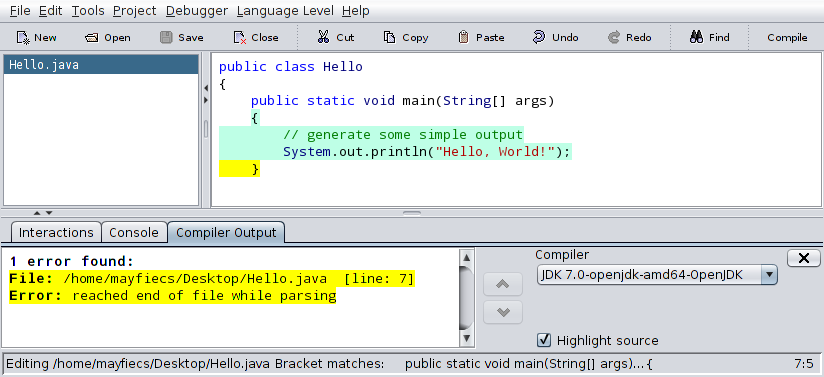
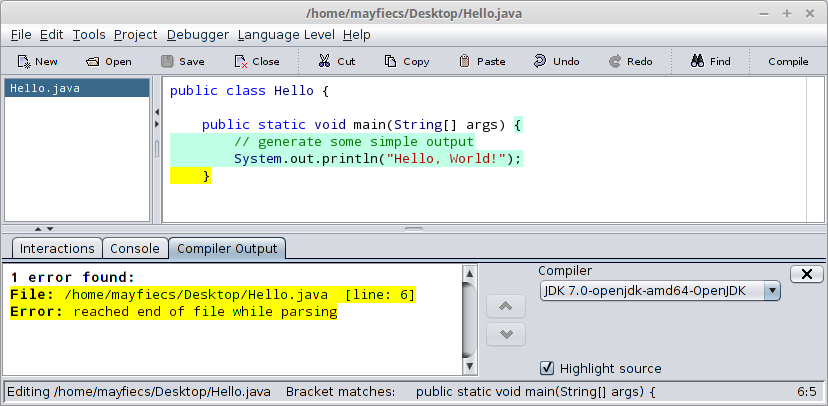
moved JDK/DrJava instructions to web; Egyptian brackets

Changed region(s): [[0.0, 0.0, 1.0, 1.0]]

diff --git a/web/drjava.html b/web/drjava.html
@@ -1,0 +1,77 @@
+<!DOCTYPE html>
+<html>
+<head>
+    <title>Getting started with DrJava</title>
+    <link href="style.css" rel="stylesheet" type="text/css">
+</head>
+<body>
+
+<font size="+2"><strong>
+    Getting started with DrJava
+</strong></font>
+<br>
+<font size="+1">
+    <a href="http://thinkjava.org/">Think Java, 6/E, Downey and Mayfield</a>
+</font>
+
+<h1>Step 1: JDK</h1>
+
+<p>
+In order to compile Java programs on your own computer, you will need to install the <a href="http://www.oracle.com/technetwork/java/javase/downloads/"><img src="world.png"> Java Development Kit</a> from Oracle's website.
+Scroll down to the section "Java Platform, Standard Edition" and click the download button under JDK.
+Then accept the license agreement and select the installer for your operating system.
+Don't forget to run the installer after you download it!
+If you run into trouble, the <a href="http://docs.oracle.com/javase/7/docs/webnotes/install/"><img src="world.png"> JDK Installation Guide</a> has specific instructions for your operating system.
+</p>
+
+<table border="0" cellpadding="5" cellspacing="0">
+<tr style="color: maroon; text-align: center;">
+    <th>Figure 1</th>
+    <th></th>
+    <th>Figure 2</th>
+</tr>
+<tr style="vertical-align: top;">
+    <td bgcolor="wheat"><img src="oracle1.png"></td>
+    <td width="25"></td>
+    <td bgcolor="wheat"><img src="oracle2.png"></td>
+</tr>
+</table>
+
+<h1>Step 2: DrJava</h1>
+
+<p>
+We will use <a href="http://www.drjava.org/"><img src="world.png"> DrJava</a> as the primary development environment throughout the book.
+Mac users should download the jar file instead of the outdated OS X App.
+There is no need to install the jar file; simply double click it to run DrJava.
+Windows users may either download the jar file, or install the Windows App if you prefer to have a Start Menu shortcut.
+Linux users should download the jar file make it executable (i.e., chmod 755).
+</p>
+
+<table border="0" cellpadding="5" cellspacing="0">
+<tr style="color: maroon; text-align: center;">
+    <th>Figure 3</th>
+</tr>
+<tr style="vertical-align: top;">
+    <td bgcolor="wheat"><img src="drjava1.png"></td>
+</tr>
+</table>
+
+<h1>Step 3: Settings</h1>
+
+<p>
+Once you get the JDK and DrJava up and running, you should change the following settings from the "Edit &ndash;&gt; Preferences" menu.
+In particular, we will use an indent level of 4 spaces in all examples.
+The other settings are for convenience when editing programs over longs periods of time.
+</p>
+
+<table border="0" cellpadding="5" cellspacing="0">
+<tr style="color: maroon; text-align: center;">
+    <th>Figure 4</th>
+</tr>
+<tr style="vertical-align: top;">
+    <td bgcolor="wheat"><img src="drjava2.png"></td>
+</tr>
+</table>
+
+</body>
+</html>

diff --git a/web/style.css b/web/style.css
@@ -1,0 +1,19 @@
+A:link    {text-decoration: none}
+A:visited {text-decoration: none}
+A:active  {text-decoration: none}
+A:hover   {text-decoration: underline}
+
+h1 {
+    font-size: 15pt;
+    border-bottom-width: 1px;
+    border-bottom-style: solid;
+    padding-top: 5px;
+}
+
+code {
+    color: darkorange;
+}
+
+em {
+    color: deeppink;
+}

diff --git a/01-way/chapt01.tex b/01-way/chapt01.tex
@@ -258,13 +258,13 @@ All it does is display the words ``Hello, World!''
 In Java, it looks like this:
 
 \begin{lstlisting}
-public class Hello
-{
-    public static void main(String[] args)
-    {
+public class Hello {
+
+    public static void main(String[] args) {
         // generate some simple output
         System.out.println("Hello, World!");
     }
+    
 }
 \end{lstlisting}
 
@@ -284,17 +284,16 @@ For now, let's focus on the overall structure.
 Java programs are made up of {\bf class} and {\bf method} definitions, which generally have the form:
 
 \begin{lstlisting}
-public class CLASSNAME
-{
-    METHOD
-    {
+public class CLASSNAME {
+
+    METHOD {
         STATEMENTS
     }
 
-    METHOD
-    {
+    METHOD {
         STATEMENTS
     }
+
 }
 \end{lstlisting}
 
@@ -316,7 +315,7 @@ When the program runs, it starts at the first statement in \java{main} and ends 
 \index{squiggly braces}
 
 Java uses squiggly braces (\{ and \}) to group things together.
-In Hello.java, the outermost squiggly braces (lines 2 and 8) contain the class definition, and the inner braces (lines 4 and 7) contain the definition of \java{main} method.
+In Hello.java, the outermost squiggly braces (lines 1 and 8) contain the class definition, and the inner braces (lines 3 and 6) contain the definition of \java{main} method.
 
 \index{print}
 \index{statement!print}
@@ -336,56 +335,32 @@ The print statement ends with a semi-colon ({\tt ;}).
 \index{comment}
 \index{statement!comment}
 
-Line 5 contains a {\bf comment}, or a bit of English text that explains the code that follows.
+Line 4 contains a {\bf comment}, or a bit of English text that explains the code that follows.
 When the compiler sees \java{//}, it ignores everything from there until the end of the line.
 You should {\em always write comments} before every major block of code so that other programmers (including your future self) can understand what you meant to do.
 
-\section{Getting started with DrJava}
+\subsection{Getting started with DrJava}
 
 \index{JDK}
 
-In order to compile Java programs on your own computer, you need to install the Java Development Kit (JDK).
+In order to compile Java programs on your own computer, you will need to install the Java Development Kit (JDK).
 This free software by Oracle includes tools for developing, debugging, and monitoring Java applications.
 All the examples in this book were developed and tested using Java SE Version 7.
 Later versions of Java are generally backward compatible, so feel free to install the latest and greatest release.
 
-Search the web for ``Java SE Downloads'' on Oracle's website.
-Scroll down to the section ``Java Platform, Standard Edition'' and click the download button under JDK.
-Then accept the license agreement and select the installer for your operating system.
-Don't forget to run the installer after you download it!
-If you run into trouble, there are many detailed tutorials on the web about how to install the JDK for your operating system.
-
-\begin{figure}[h!]
-\includegraphics[height=2.4in]{oracle1.png}
-\hspace{2em}
-\includegraphics[height=2.4in]{oracle2.png}
-\caption{Screenshots of Oracle's website (at the time of writing).}
-\end{figure}
-
 \index{DrJava}
 
-We will use DrJava (\url{http://drjava.org/}) as the development environment throughout the book.
-Mac users should download the jar file instead of the outdated OS X App.
-There is no need to install the jar file; simply double click it to run DrJava.
-Windows users may either download the jar file, or install the Windows App if you prefer to have a Start Menu shortcut.
-
-\begin{figure}[h!]
-\includegraphics[width=0.9\textwidth]{drjava1.png}
-\caption{Download section of DrJava's website (at the time of writing).}
-\end{figure}
-
-Once you get the JDK and DrJava up and running, you should change the following settings from the ``Edit $>$ Preferences'' menu.
-In particular, we will use an indent level of 4 spaces in all examples.
-The other settings are for convenience when editing programs over longs periods of time.
-
-\begin{figure}[h!]
-\includegraphics[width=0.9\textwidth]{drjava2.png}
-\caption{Recommended settings in DrJava preferences.}
-\end{figure}
-
+We will use DrJava as the primary development environment throughout the book.
 One of the most distinctive features of DrJava is the Interactions Pane at the bottom of the window.
 It offers both beginning students and more experienced programmers the ability to try out code quickly, without having to write a class definition and save/compile/run the program.
 Refer to the DrJava documentation (\url{http://drjava.org/docs/quickstart/}) for more details.
+
+\begin{figure}[h!]
+\includegraphics[width=\textwidth]{drjava-hello.png}
+\caption{Screenshot of DrJava editing the hello world program.}
+\end{figure}
+
+Step-by-step instructions for installing the JDK and configuring DrJava are available on this book's website: \url{http://thinkjava.org/}
 
 \section{Reading error messages}
 
@@ -417,7 +392,7 @@ If there is a single syntax error anywhere in your program, the compiler will di
 
 To make matters worse, the error messages you get from the compiler are often not very helpful.
 For example, removing the closing brace on line 8 of the hello world program results in ``Error: reached end of file while parsing.''
-The compiler also reports that the problem was found on line 7, which in this case is not at fault.
+The compiler also reports that the problem was found on line 6, which in this case is not at fault.
 Since line 8 was deleted, the compiler had no other choice.
 
 During the first few weeks of your programming career, you will probably spend a lot of time tracking down syntax errors.
@@ -444,13 +419,13 @@ For example, if you accidentally divide by zero you will get an \java{Arithmetic
 \begin{small}
 \begin{lstlisting}[stringstyle=]
 Exception in thread "main" java.lang.ArithmeticException: / by zero
-    at Hello.main(Hello.java:6)
+    at Hello.main(Hello.java:5)
 \end{lstlisting}
 \end{small}
 
 This information is useful for debugging.
 The first line gives a brief description of the error (/ by zero).
-The subsequent lines report the class and method names (Hello.main), along with the file names and line numbers of where the error occurred (Hello.java:6).
+The subsequent lines report the class and method names (Hello.main), along with the file names and line numbers of where the error occurred (Hello.java:5).
 Keep in mind that the exact line where the program crashed may not be the line that needs to be fixed.
 
 \subsection{Semantic errors}
@@ -466,12 +441,12 @@ Specifically, it will do what you told it to do.
 Here is an example of a semantic error in the hello world program:
 
 \begin{lstlisting}
-public class Hello
-{
-    public static void main(String[] args)
-    {
+public class Hello {
+
+    public static void main(String[] args) {
         System.out.println("Goodbye, world.");
     }
+
 }
 \end{lstlisting}
 

diff --git a/thinkjava.tex b/thinkjava.tex
@@ -6,9 +6,9 @@
 
 \frontmatter
 
-\input{00-pre/titlepage.tex}
-\input{00-pre/copyright.tex}
-\input{00-pre/preface.tex}
+\import{00-pre/}{titlepage.tex}
+\import{00-pre/}{copyright.tex}
+\import{00-pre/}{preface.tex}
 
 % table of contents
 \cleardoublepage

diff --git a/01-way/Hello.java b/01-way/Hello.java
@@ -1,0 +1,8 @@
+public class Hello {
+    
+    public static void main(String[] args) {
+        // generate some simple output
+        System.out.println("Hello, World!");
+    }
+    
+}
